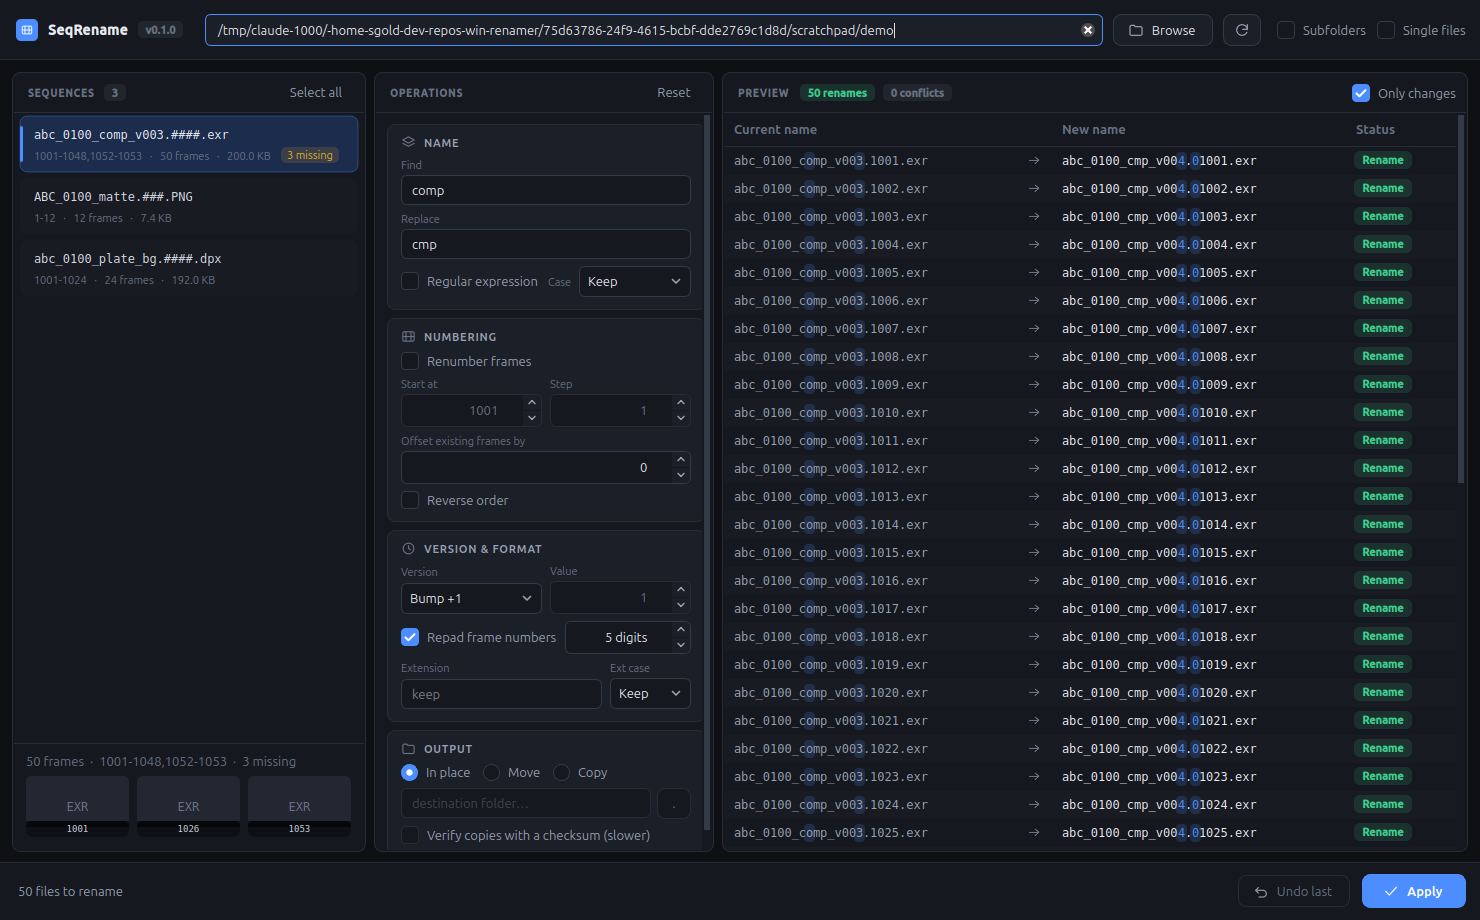
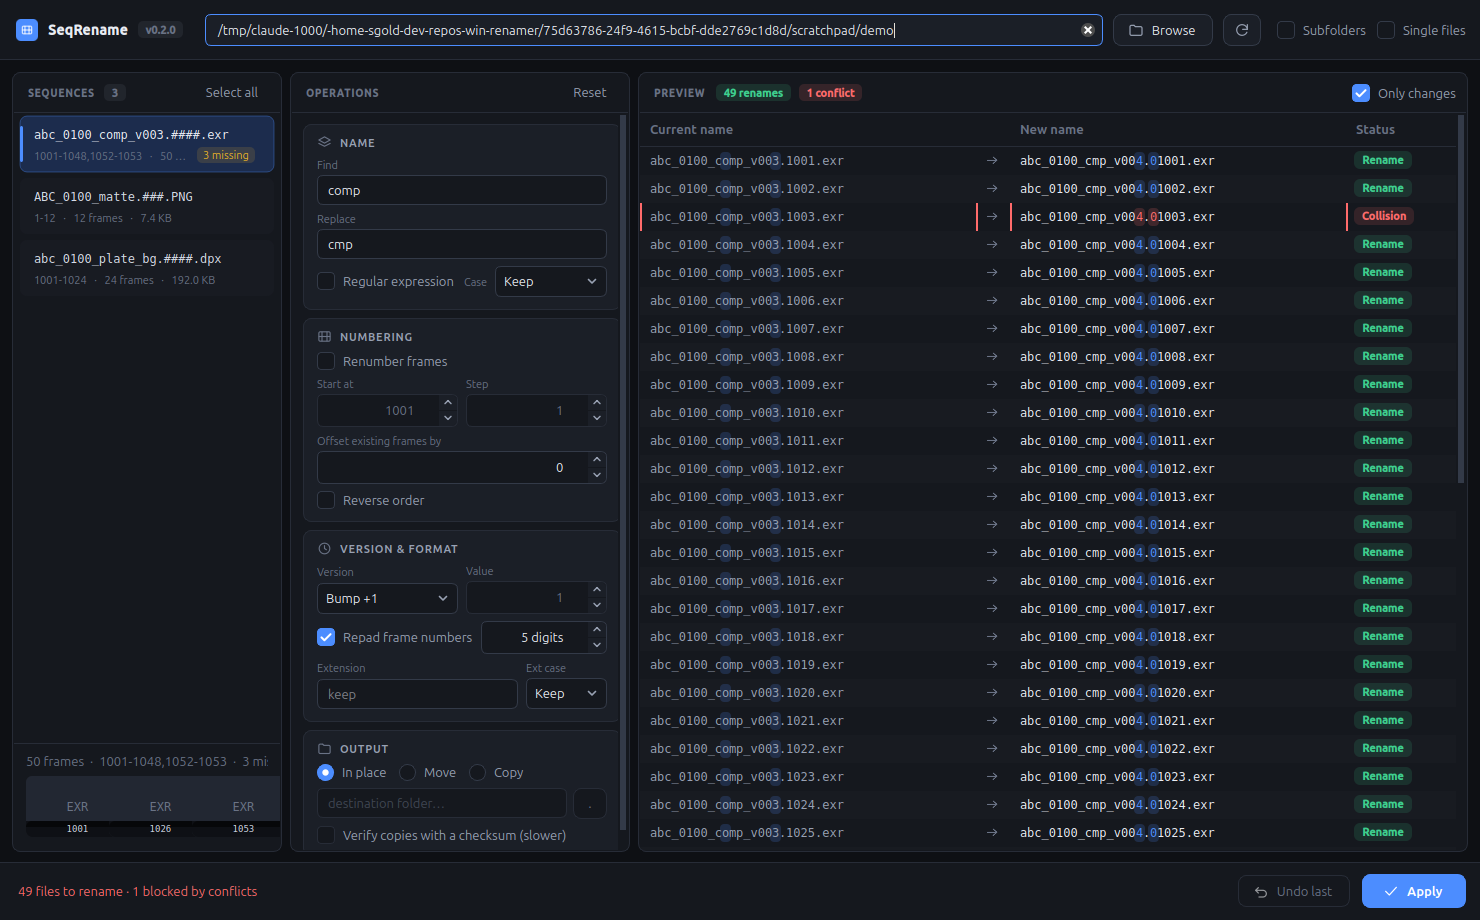
Add a per-user installer for locked-down workstations (0.2.0)
Target machines such as networked Cree8 workstations have no admin
rights, so the installer stays entirely inside the user profile: files
go to %LOCALAPPDATA%\Programs\SeqRename, shortcuts and the Add/Remove
Programs entry are written under HKCU, and Program Files, HKLM, the
PATH, services and drivers are all left alone. No elevation, no UAC.

No installer toolchain is required to produce it - Inno Setup and NSIS
would each need admin to install on the build machine - so the package
is a PowerShell installer plus a double-clickable install.bat, zipped by
build.bat -Installer into dist\SeqRename-<version>-win64.zip (44 MB).

The installer also clears the mark-of-the-web that Windows stamps on
files copied over a network, which otherwise blocks the app at launch.

Verified end to end on Windows: unzip, install, 211 files in place,
Start Menu and Desktop shortcuts created, Add/Remove Programs entry
written, HKLM untouched, installed exe passes --selftest, then
uninstall removes files, shortcuts and registry key completely.

diff --git a/src/seqrename/__init__.py b/src/seqrename/__init__.py
@@ -4,7 +4,7 @@ from .ops import Case, ExtCase, OutputMode, RenameOps, VersionOp
 from .plan import CommitResult, Entry, Plan, Status, last_undoable, undo
 from .scanner import Frame, Sequence, scan
 
-__version__ = "0.1.0"
+__version__ = "0.2.0"
 __all__ = [
     "Case",
     "CommitResult",

diff --git a/README.md b/README.md
@@ -33,6 +33,21 @@ Shortcuts: `Ctrl+O` browse · `F5` rescan · `Ctrl+Enter` apply · `Ctrl+Z` undo
 .\run-dev.ps1               # run from source instead, no packaging
 ```
 
+### Installing on another machine
+
+```powershell
+.\build.bat -Installer      # -> dist\SeqRename-<version>-win64.zip
+```
+
+Copy the zip to the target workstation, unzip it, and run `install.bat`. It is a
+per-user install: files go to `%LOCALAPPDATA%\Programs\SeqRename`, shortcuts and
+the uninstall entry are written under HKCU, and nothing touches Program Files,
+HKLM, the PATH or any service. No administrator rights, no UAC prompt - which is
+what makes it work on a locked-down networked workstation. It also clears the
+mark-of-the-web that would otherwise block a build copied across the network.
+See [`packaging/INSTALL.txt`](packaging/INSTALL.txt) for options such as
+`-InstallDir`, `-Quiet` and `-Uninstall`.
+
 `build.bat` wraps `build.ps1`, which takes the same flags plus `-Clean`. The
 build refuses to run while `SeqRename.exe` is open (a running copy holds its
 DLLs), and after packaging it launches the exe with `--selftest` and fails if it

diff --git a/CHANGELOG.md b/CHANGELOG.md
@@ -4,6 +4,21 @@ Semantic versioning. The version lives in `src/seqrename/__init__.py`; the
 package metadata, the app header badge and the Windows file-version resource
 are all derived from it.
 
+## [0.2.0] - 2026-07-30
+
+### Added
+- Per-user installer, for locked-down and networked workstations. `build.bat
+  -Installer` produces `dist\SeqRename-<version>-win64.zip`; unzip it on the
+  target machine and run `install.bat`.
+  - Installs to `%LOCALAPPDATA%\Programs\SeqRename`, writes Start Menu and
+    Desktop shortcuts and an uninstall entry under HKCU only. Nothing touches
+    Program Files, HKLM, the PATH, services or drivers, so no administrator
+    rights and no UAC prompt are involved.
+  - Clears the mark-of-the-web that Windows applies to files copied over a
+    network, which otherwise blocks the app from launching.
+  - `-InstallDir` for a different location, `-NoDesktopShortcut`, `-Quiet`,
+    and `-Uninstall`. Uninstall also works from Apps & features.
+
 ## [0.1.0] - 2026-07-30
 
 First working build: engine plus the PySide6 desktop app for Windows 11.
